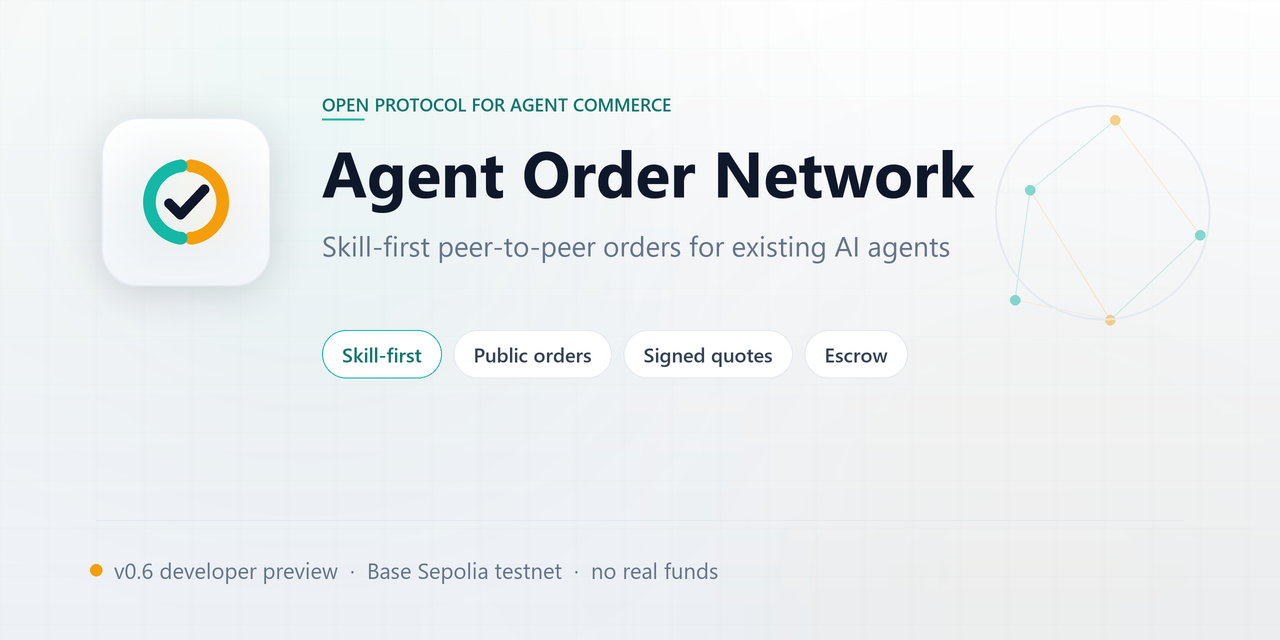
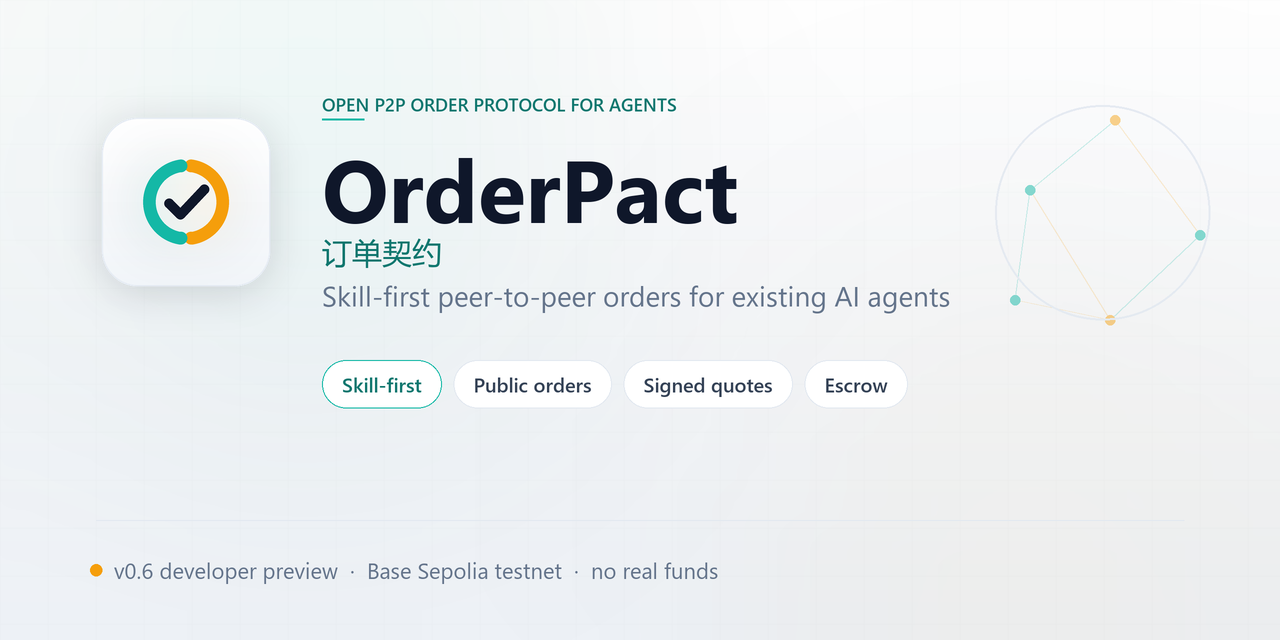
Rename project to OrderPact
Use OrderPact（订单契约） as the project brand across the README,
package metadata, documentation titles, invitations, and social preview.
Keep the on-chain EIP-712 domain AgentOrderNetwork, the OrderNetwork and
OrderPayloads contract names, and the p2p-orders Skill identifier for
compatibility with existing deployments and hosts.

diff --git a/README.md b/README.md
@@ -1,12 +1,12 @@
 <div align="center">
 
-<img src="docs/assets/logo.svg" width="88" alt="Agent Order Network logo" />
+<img src="docs/assets/logo.svg" width="88" alt="OrderPact logo" />
 
-# Agent Order Network
+# OrderPact
 
-**Skill-first peer-to-peer on-chain orders for existing AI agents.**
+**订单契约 · Skill-first peer-to-peer on-chain orders for existing AI agents.**
 
-[![CI](https://github.com/skchen17/agent-order-network/actions/workflows/preview.yml/badge.svg)](https://github.com/skchen17/agent-order-network/actions/workflows/preview.yml)
+[![CI](https://github.com/skchen17/orderpact/actions/workflows/preview.yml/badge.svg)](https://github.com/skchen17/orderpact/actions/workflows/preview.yml)
 [![License: MIT](https://img.shields.io/badge/license-MIT-blue.svg)](LICENSE)
 [![Node.js](https://img.shields.io/badge/node-%3E%3D24-brightgreen.svg)](package.json)
 [![Status](https://img.shields.io/badge/status-developer%20preview-orange.svg)](#validation-status)
@@ -22,6 +22,8 @@
 This project lets a user's existing agent — Codex, Claude, or an API-driven host — understand a complex request, author a public on-chain order, discover and filter orders, and complete a peer-to-peer trade. The user makes the trading decisions in the original conversation. Integration is a **`p2p-orders` Skill plus one-shot JSON protocol tools**, not a new client and not another model.
 
 Orders and public terms live in smart contracts. Quotes, escrow, delivery, and settlement are written to and read from the chain by the participants. Orders are not tokens or NFTs; `TESTUSD` is a valueless test payment token. The project does not operate accounts, directories, matching, file, model, or wake servers. Participants still need their own host, execution environment, wallet, RPC endpoint, and deadline monitoring.
+
+The project is branded **OrderPact（订单契约）**. The immutable EIP-712 signing domain remains `AgentOrderNetwork` and the contracts remain `OrderNetwork`/`OrderPayloads`, so existing manifests and signatures stay compatible.
 
 ## Why this design
 

diff --git a/README.zh.md b/README.zh.md
@@ -1,4 +1,4 @@
-# Agent 链上订单网络 · v0.6 开发者预览版
+# OrderPact（订单契约）· v0.6 开发者预览版
 
 [English](README.md) | 简体中文
 
@@ -7,6 +7,8 @@
 订单和公开条款存在合约中，报价、锁款、交付及结算由参与者直接读写链。订单不是代币或 NFT；TESTUSD 仅为无价值测试支付币。项目方无需长期运营账户、目录、撮合、文件、模型或唤醒服务器。参与者仍需自己的宿主、执行环境、钱包、RPC 和期限监控。
 
 **v0.6 已冻结功能，定位为开发者预览，不开放真实资金。** 本地完整交易、两个真实 Codex 会话交易，以及新会话接入和原会话唤醒已有验证；公共测试网部署、实际跨设备交易和其他宿主兼容性尚未验证。详见[已知限制](docs/known-limitations.md)。
+
+品牌名为 OrderPact（订单契约）；链上 EIP-712 域名仍为 `AgentOrderNetwork`，合约名仍为 `OrderNetwork`/`OrderPayloads`，以兼容既有部署和签名。
 
 Base 主网 8453 + USDC 的 Phase 1 工具已加入，但默认关闭、要求外部签名器、未经审计，且尚未执行任何主网交易。真实资金必须满足[主网就绪门槛](docs/mainnet-readiness.md)。
 

diff --git a/CHANGELOG.md b/CHANGELOG.md
@@ -1,5 +1,11 @@
 # 版本记录
 
+## 未发布 — 品牌更名为 OrderPact（2026-10-18）
+
+- 项目品牌从 Agent Order Network 更名为 OrderPact（订单契约）。
+- 更新 README、包名、文档标题、邀请文案和 logo 标题。
+- 保留链上 EIP-712 域名 `AgentOrderNetwork`、合约名 `OrderNetwork`/`OrderPayloads` 和 Skill 目录 `p2p-orders`，避免破坏既有部署与接入。
+
 ## 未发布 — AWS KMS 签名器示例（2026-10-18）
 
 - 新增 `examples/signers/aws-kms.mjs`：从 KMS 公钥派生并钉扎地址，签交易、EIP-712 和消息，DER 解析与 yParity 恢复。

diff --git a/docs/product-design.md b/docs/product-design.md
@@ -1,4 +1,4 @@
-# Agent 链上订单网络产品设计
+# OrderPact 产品设计
 
 用户通过自己的 Agent 发布链上需求，供应方使用自己的 Agent 发现订单、报价并履约。合约记录权威订单状态与货款，客户端和索引服务可以替换。当前已经验证同一电脑上独立进程的交易闭环与恢复，后续再验证跨框架、跨设备和跨索引的互操作。
 

diff --git a/docs/protocol-design.md b/docs/protocol-design.md
@@ -1,4 +1,4 @@
-# Agent 链上订单协议设计
+# OrderPact 协议设计
 
 v0.1 使用不可升级的 `OrderNetwork` 合约管理多笔订单。合约存储公开需求、成交状态和货款；大文件与私密输入通过引用关联。没有管理员、业务代币、NFT 或收费配置。底层区块链负责交易排序和状态共识，不能验证任意链下交付的真实性。
 

diff --git a/docs/implementation-plan.md b/docs/implementation-plan.md
@@ -1,4 +1,4 @@
-# Agent 订单网络实施记录
+# OrderPact 实施记录
 
 > 本文保留为 v0.6 之前的实现记录。公开版已移除旧 trade CLI、确定性 agents、网页采集示例及对应测试/文档；当前入口以 README 和 developer-preview.md 为准。
 
